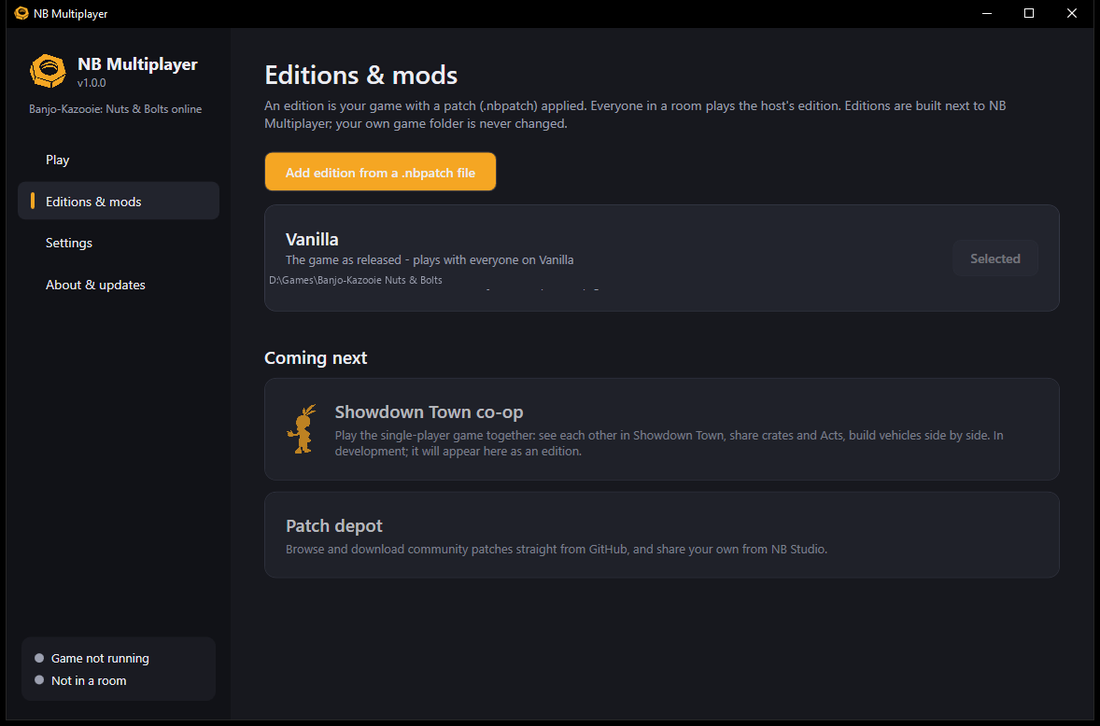
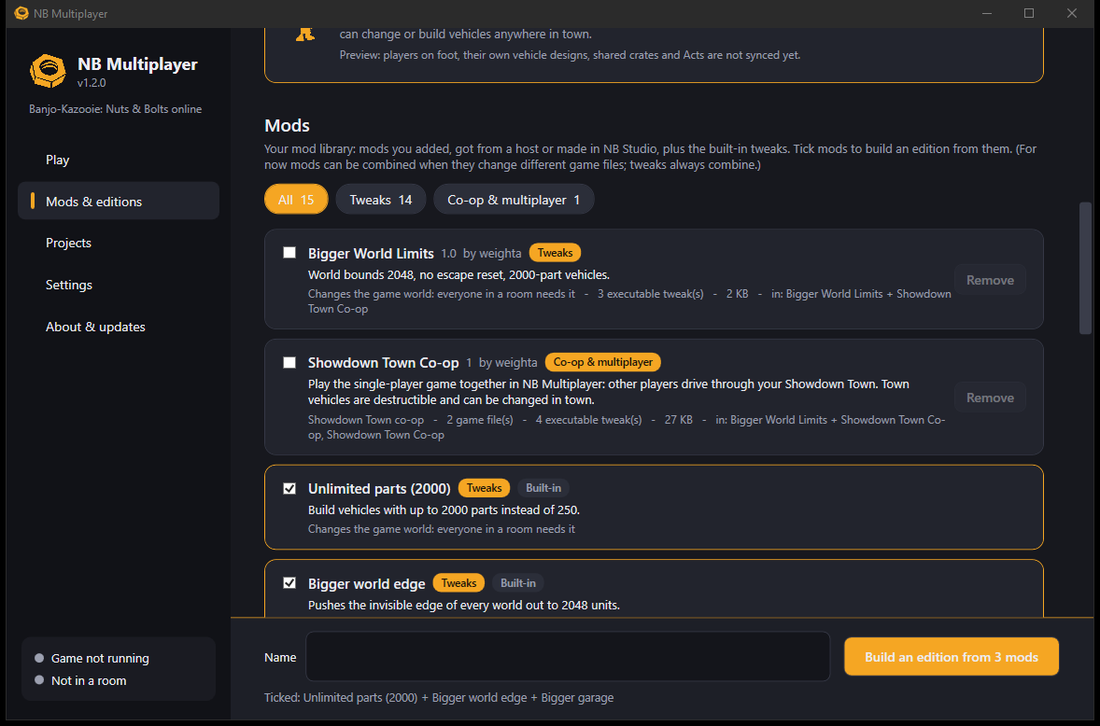
1.2.0: mods, editions and tweaks; Projects and NB Studio

diff --git a/README.md b/README.md
@@ -5,7 +5,8 @@
 <p align="center">
   <b>Play <i>Banjo-Kazooie: Nuts &amp; Bolts</i> online with your friends again.</b><br>
   The game's own Xbox LIVE multiplayer (parties, races, sports, team games) running in an emulator, connected
-  through Steam: no port forwarding, no accounts, no servers to rent.
+  through Steam: no port forwarding, no accounts, no servers to rent. Plus a mod library with tick-box tweaks,
+  Showdown Town co-op, and your NB Studio projects in one place.
 </p>
 
 <p align="center">
@@ -28,7 +29,8 @@
 - [Joining a room](#joining-a-room)
 - [In the game](#in-the-game)
 - [Showdown Town co-op (preview)](#showdown-town-co-op-preview)
-- [Editions and mods](#editions-and-mods)
+- [Mods, editions and tweaks](#mods-editions-and-tweaks)
+- [Projects and NB Studio](#projects-and-nb-studio)
 - [Updates](#updates)
 - [Troubleshooting](#troubleshooting)
 - [How it works](#how-it-works)
@@ -162,17 +164,40 @@ As soon as two players are in town, each sees the other.
 > **Preview limits:** players on foot are not shown yet (when someone gets out, their trolley waits where they left it), everyone appears in the standard trolley (not their own
 > vehicle design), and crates, Acts and story progress are not shared yet. Each player has their own time of day.
 
-## Editions and mods
+## Mods, editions and tweaks
 
-An **edition** is your game with a patch (`.nbpatch`, made with
-[NB Studio](https://github.com/weighta/NB-Studio-Banjo-Kazooie-Nuts-and-Bolts-World-Editor-)) applied. Everyone in a
-room plays the **host's edition**; joiners switch to it automatically when they have it.
+**Mods** change the game: new maps, vehicle parts, gameplay, looks, and small **tweaks**. Every mod has a category
+(*Maps & worlds, Vehicle parts, Gameplay & scripts, Textures & visuals, Sounds & music, Tweaks, Co-op & multiplayer*)
+shown as a badge and used as a filter. An **edition** is your game with the mods you ticked, like a mod profile: tick
+mods, press **Build an edition**, then host it or play it alone with **Play solo** on the Play page.
 
-<p align="center"><img src="docs/images/13-app-editions.png" alt="Editions" width="85%"></p>
+<p align="center"><img src="docs/images/13-app-editions.png" alt="Mods and editions" width="85%"></p>
 
-* **Add edition from a .nbpatch file**: NB Multiplayer builds the edition next to itself. Unchanged game files are
-  linked, not copied, so it takes little space, and your own game folder is never modified.
-* A **patch depot** (browse and download community patches) is in development and will appear here.
+* **Built-in tweaks**: the game-executable mods researched for NB Studio are tick boxes: *Unlimited parts (2000),
+  Bigger world edge, No world-edge reset, Bigger garage, Longer draw distance, Change vehicles in town, Breakable town
+  vehicles, Jumping AI vehicles, All parts unlocked, Developer main menu* and more. They combine with each other and
+  with any mod.
+* **Add a mod (.nbpatch)**: mods made with
+  [NB Studio](https://github.com/weighta/NB-Studio-Banjo-Kazooie-Nuts-and-Bolts-World-Editor-) (or by friends) go into
+  your mod library.
+* **Change mods** on an edition ticks its mods so you can add or remove some and rebuild it.
+* **Rooms share mods**: everyone in a room plays the host's edition. A friend who lacks one of its mods gets it from
+  the host's room when they join (through Steam too) and NB Multiplayer builds the same edition for them.
+* Editions are built next to NB Multiplayer; unchanged game files are linked, not copied, and your own game folder is
+  never modified.
+* **For now** mods can be combined when they change different game files (tweaks always combine). Mods that edit the
+  same world, such as two Showdown Town overhauls, are shown as conflicting; merging them is planned.
+* A **mod depot** (browse and download community mods, share your own) is in development.
+
+## Projects and NB Studio
+
+The **Projects** page lists your NB Studio projects (NB Studio adds every project you open). **Get NB Studio** downloads
+the editor from GitHub and keeps it up to date; **Open in NB Studio** opens a project in it; **Play** runs the project
+with its executable tweaks; **Make a mod** turns it into a mod for your library, with a name, version, category and
+description, and saves the `.nbpatch` file to share in the project's `mods` folder. **New project** makes a copy of
+your game for NB Studio to edit.
+
+<p align="center"><img src="docs/images/18-app-projects.png" alt="Projects" width="85%"></p>
 
 ## Updates
 
